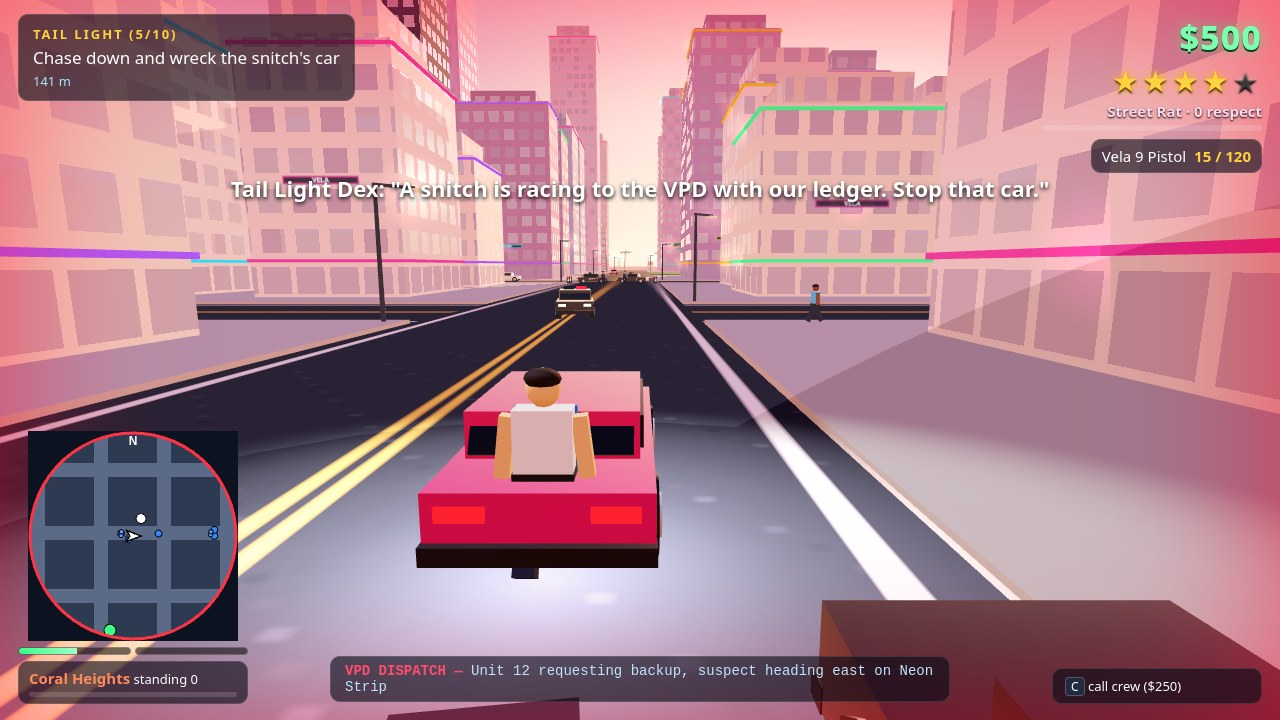
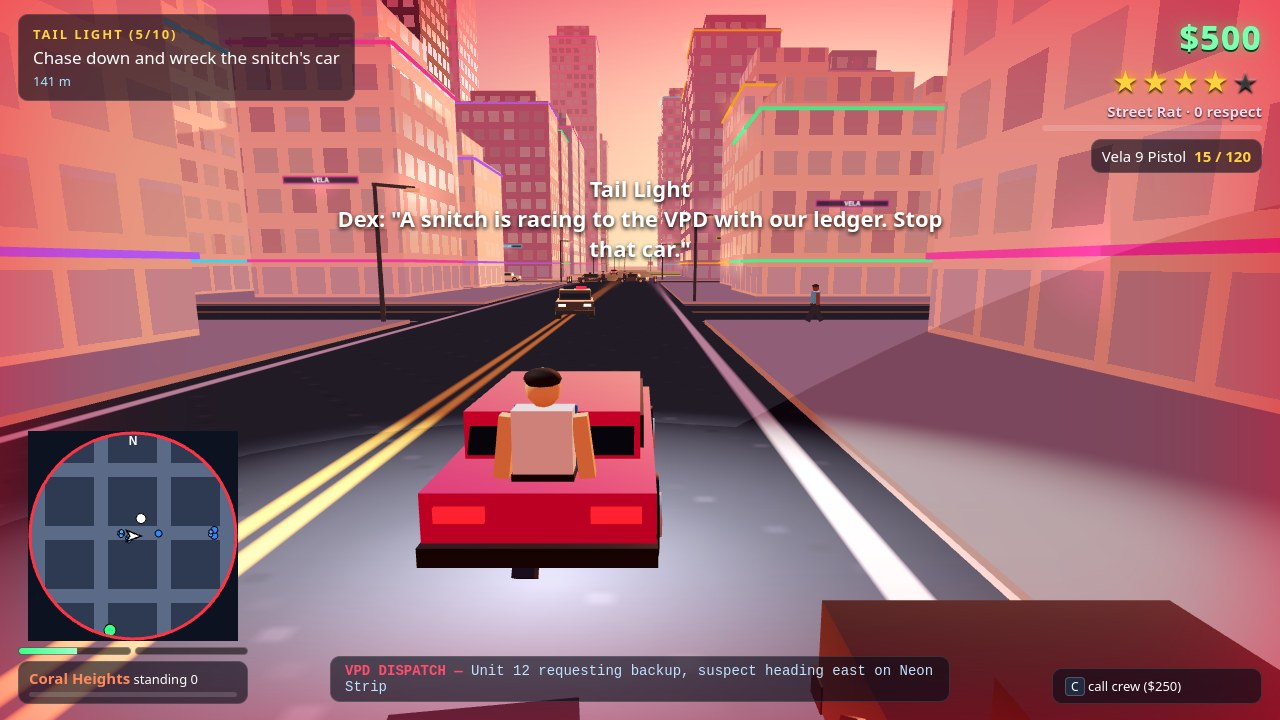
Audit timing in game time, mouse look without pointer lock in test mode, car unstuck guard, golden-hour palette, notice wrap, README

diff --git a/game/src/world/sky.js b/game/src/world/sky.js
@@ -38,7 +38,7 @@ void main() {
 
 const PALETTE = {
   day: { zenith: 0x2f6fd0, horizon: 0xb7dcff, glow: 0xfff1c9, sun: 0xfff3dd, hemi: 0xbfdcff, ground: 0x8a7b62, fog: 0xbcd6ef },
-  gold: { zenith: 0x3b3f9a, horizon: 0xff9150, glow: 0xffb35c, sun: 0xffa45c, hemi: 0xffb7a0, ground: 0x6a4a5a, fog: 0xe0906a },
+  gold: { zenith: 0x29307e, horizon: 0xff7a38, glow: 0xffa040, sun: 0xff9a48, hemi: 0xd99a8a, ground: 0x4a3446, fog: 0xc97a5a },
   night: { zenith: 0x050716, horizon: 0x2a1840, glow: 0x50306a, sun: 0x8fa6ff, hemi: 0x3a3f7a, ground: 0x1a1426, fog: 0x1d1530 },
 };
 
@@ -92,7 +92,7 @@ export function createSky(game) {
     const elev = Math.sin(ang);
     const dir = uniforms.uSunDir.value.set(-Math.cos(ang), elev, 0.35).normalize();
     const night = clamp((-elev + 0.05) / 0.25, 0, 1);
-    const gold = clamp(1 - Math.abs(elev - 0.08) / 0.32, 0, 1) * (1 - night);
+    const gold = clamp(1 - Math.abs(elev - 0.1) / 0.45, 0, 1) * (1 - night);
     sky.night = night; sky.gold = gold;
     const day = PALETTE.day, g = PALETTE.gold, n = PALETTE.night;
     const pick = (k) => mixColor(mixColor(day[k], g[k], gold), n[k], night);
@@ -102,12 +102,12 @@ export function createSky(game) {
     uniforms.uStars.value = night;
     hemi.color.copy(pick('hemi'));
     hemi.groundColor.copy(pick('ground'));
-    hemi.intensity = lerp(1.1, 0.55, night);
+    hemi.intensity = lerp(lerp(1.1, 0.7, gold), 0.55, night);
     sun.color.copy(night > 0.5 ? new THREE.Color(PALETTE.night.sun) : pick('sun'));
-    sun.intensity = lerp(lerp(2.6, 3.4, gold), 0.35, night);
+    sun.intensity = lerp(lerp(2.6, 3.6, gold), 0.35, night);
     scene.fog.color.copy(pick('fog'));
-    scene.fog.near = lerp(140, 70, night);
-    scene.fog.far = lerp(560, 330, night);
+    scene.fog.near = lerp(lerp(140, 170, gold), 70, night);
+    scene.fog.far = lerp(lerp(560, 620, gold), 330, night);
     // Light direction: never flatter than ~16 degrees so shadows stay crisp and readable.
     const lightDir = night > 0.5 ? new THREE.Vector3(0.4, 0.8, 0.3).normalize()
       : new THREE.Vector3(dir.x, Math.max(dir.y, 0.28), dir.z).normalize();
@@ -115,7 +115,7 @@ export function createSky(game) {
     sun.target.position.set(fx, 0, fz);
     sun.position.set(fx + lightDir.x * 160, lightDir.y * 160, fz + lightDir.z * 160);
     dome.position.set(fx, 0, fz);
-    renderer.toneMappingExposure = lerp(lerp(1.0, 1.08, gold), 0.95, night);
+    renderer.toneMappingExposure = lerp(lerp(1.0, 0.92, gold), 0.95, night);
 
     if (Math.abs(hour - envHour) > 0.35) {
       envHour = hour;

diff --git a/game/src/vehicles/vehicles.js b/game/src/vehicles/vehicles.js
@@ -172,6 +172,32 @@ export function createVehicles(game) {
       }
     } else v.stuckT = 0;
     v.lastX = v.x; v.lastZ = v.z;
+    // Second guard, over a longer window: wheels driven for 1.5 s with under 0.6 m of net travel
+    // (the car jitters in a gap between two colliders) — lift it to the nearest open spot.
+    if (v.driver === 'player' && Math.abs(v.throttle) > 0.1) {
+      if (v.winT === undefined) { v.winT = 0; v.winX = v.x; v.winZ = v.z; }
+      v.winT += dt;
+      if (v.winT > 1.5) {
+        if (Math.hypot(v.x - v.winX, v.z - v.winZ) < 0.6) freeSpot(v);
+        v.winT = 0; v.winX = v.x; v.winZ = v.z;
+      }
+    } else v.winT = undefined;
+  }
+
+  // Search rings around a car for the nearest place it fits, and move it there.
+  function freeSpot(v) {
+    for (let r = 2; r <= 14; r += 2) {
+      for (let k = 0; k < 12; k++) {
+        const a = (k / 12) * Math.PI * 2;
+        const x = v.x + Math.sin(a) * r, z = v.z + Math.cos(a) * r;
+        if (!game.colliders.pointBlocked(x, z, CAR_RADIUS + 0.3)) {
+          v.x = x; v.z = z; v.speed = 0; v.spin = 0;
+          game.emit('carUnstuck', v);
+          return true;
+        }
+      }
+    }
+    return false;
   }
 
   // Car-to-car contact: circles separate, the lighter car takes more of the shove.

diff --git a/game/src/ui/style.css b/game/src/ui/style.css
@@ -34,7 +34,7 @@ html, body { margin: 0; height: 100%; overflow: hidden; background: #07070d; col
 #ticker { position: absolute; left: 50%; transform: translateX(-50%); bottom: 18px; max-width: 620px; padding: 6px 14px; font-size: 14px; color: #bfe3ff; font-family: "Courier New", monospace; }
 #ticker::before { content: "VPD DISPATCH \2014  "; color: #ff4d6d; font-weight: 700; }
 #radio { position: absolute; top: 74px; left: 50%; transform: translateX(-50%); font-size: 20px; font-weight: 800; color: #ff7ac0; text-shadow: 0 0 12px #ff2d95, 0 2px 2px #000; letter-spacing: 2px; }
-#notice { position: absolute; top: 24%; left: 50%; transform: translateX(-50%); font-size: 22px; font-weight: 700; text-shadow: 0 2px 4px #000; text-align: center; white-space: nowrap; }
+#notice { position: absolute; top: 24%; left: 50%; transform: translateX(-50%); font-size: 22px; font-weight: 700; text-shadow: 0 2px 4px #000; text-align: center; white-space: pre-line; max-width: 80vw; }
 #crewBar { position: absolute; right: 18px; bottom: 16px; padding: 8px 12px; font-size: 13px; min-width: 210px; }
 #crewBar .ab { display: flex; justify-content: space-between; gap: 10px; }
 #crewBar .cd { color: #8a8fa0; }

diff --git a/game/src/ui/weaponwheel.js b/game/src/ui/weaponwheel.js
@@ -27,7 +27,7 @@ export function createWeaponWheel(game, el) {
   const ww = { open: false, hover: 0, vx: 0, vy: 0, heldT: 0, moved: false, opens: 0 };
 
   function open() {
-    ww.open = true; ww.opens++; ww.heldT = 0; ww.vx = 0; ww.vy = 0; ww.moved = false;
+    ww.open = true; ww.opens++; ww.heldT = 0; ww.frames = 0; ww.vx = 0; ww.vy = 0; ww.moved = false;
     ww.hover = game.combat.state.index;
     game.wheelOpen = true;
     game.timeScale = 0.25;
@@ -42,7 +42,7 @@ export function createWeaponWheel(game, el) {
     game.timeScale = 1;
     el.classList.add('hidden');
     if (!apply) return;
-    if (!ww.moved && ww.heldT < 0.22) game.combat.cycle(1);
+    if (!ww.moved && (ww.heldT < 0.22 || ww.frames <= 2)) game.combat.cycle(1);
     else game.combat.select(ww.hover);
   }
 
@@ -62,7 +62,7 @@ export function createWeaponWheel(game, el) {
       if (canUse && input.wasPressed(...WHEEL_KEYS)) open();
       return;
     }
-    ww.heldT += realDt;
+    ww.heldT += realDt; ww.frames++;
     ww.vx += input.mouseDX; ww.vy += input.mouseDY;
     const len = Math.hypot(ww.vx, ww.vy);
     if (len > 24) {

diff --git a/game/src/systems/garage.js b/game/src/systems/garage.js
@@ -35,6 +35,8 @@ export function createGarage(game) {
     else if (what === 'armor' && lv.armor < 3 && pay(ARMOR_COST[lv.armor])) { lv.armor++; ok = true; }
     else if (what === 'paint' && pay(PAINT_COST)) {
       lv.paint = (lv.paint + 1) % COLORS.paint.length;
+      // Never "respray" to the colour the car already wears.
+      if (g.paintColor() === v.color) lv.paint = (lv.paint + 1) % COLORS.paint.length;
       game.vehicleSys.repaint(v, g.paintColor()); ok = true;
     } else if (what === 'repair' && v.hp < v.maxHp && pay(REPAIR_COST)) {
       v.hp = v.maxHp; v.onFire = false; ok = true;

diff --git a/game/src/main.js b/game/src/main.js
@@ -53,6 +53,9 @@ const scene = new THREE.Scene();
 const camera = new THREE.PerspectiveCamera(62, window.innerWidth / window.innerHeight, 0.3, 1400);
 Object.assign(game, { renderer, scene, camera });
 game.input = createInput(canvas);
+// Headless Chromium's pointer lock reports recentering warps instead of real mouse deltas,
+// so the test mode keeps the cursor free and the game reads cursor movement instead.
+if (AUDIT) game.input.requestLock = () => {};
 game.colliders = createColliders();
 game.hour = START_HOUR;
 

diff --git a/game/src/systems/missions.js b/game/src/systems/missions.js
@@ -45,6 +45,9 @@ function stealCar(place, kind, label) {
     label, kind: 'steal',
     start(m) {
       this.car = m.game.vehicleSys.spawn(kind, place.x, place.z, place.yaw ?? 0, { driver: null, tag: 'mission' });
+      // The parked target is tough until you reach it, so stray fire or traffic
+      // cannot fail the job before it starts.
+      this.car.hp = this.car.maxHp = this.car.maxHp * 3;
       m.own(this.car);
       m.blips.push({ obj: this.car, color: C.goal });
     },

diff --git a/game/src/actors/player.js b/game/src/actors/player.js
@@ -144,7 +144,7 @@ export function createPlayer(game, x, z) {
     if (!p.alive) return;
     // Mouse look (both modes).
     const sens = 0.0026;
-    if (input.enabled) {
+    if (input.enabled && !game.wheelOpen) {
       p.camYaw -= input.mouseDX * sens;
       p.camPitch = clamp(p.camPitch + input.mouseDY * sens, -0.35, 0.8);
     }
